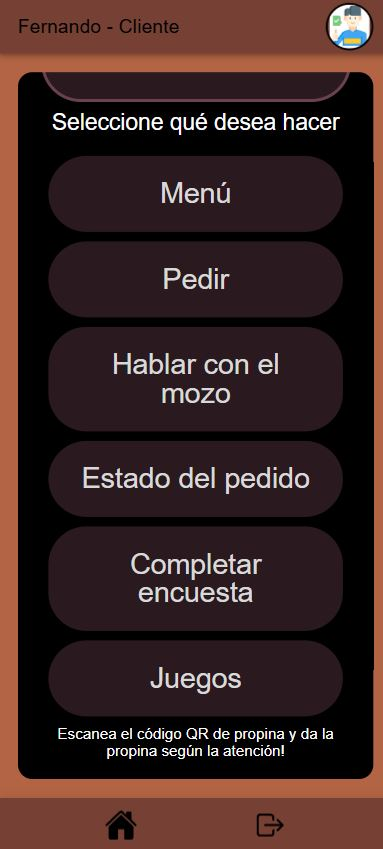
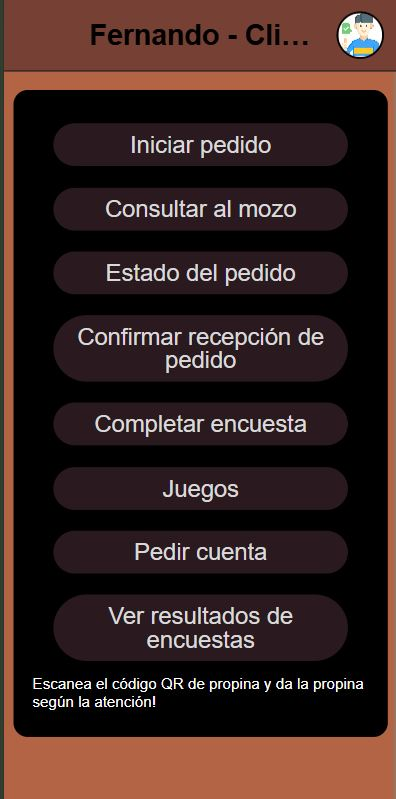
actualizacion readme

diff --git a/src/app/app.component.ts b/src/app/app.component.ts
@@ -99,8 +99,11 @@ export class AppComponent {
           if(this.authService.tipoUsuario == "Dueño" || this.authService.tipoUsuario == "Supervisor"){
             this.router.navigate(['/listaClientes']);
           } else{
-            this.router.navigate(['/mesa',"1"]);
+            // this.router.navigate(['/mesa',"1"]);
             // this.router.navigate(['/home']);
+            this.router.navigate(['/ingreso']);
+
+
         
           }
           // this.router.navigate(['/resultadosEncuestas']);

diff --git a/README.md b/README.md
@@ -90,6 +90,79 @@ Se marcaran en negrita aquellas tareas que hayan tenido un cambio de una semana 
 | 41 | **Juego para obtener un 20% de descuento**          | P3           | Santiago          | 🔴 No iniciada    |                    |                          |                                                             |
 | 42 | **Sonido inicio de sesión y cierre de sesión**      | P3           | Kervin            | 🔴 No iniciada    |                    |                          |                                                             |
 
+
+
+# Proyecto - Historial de Tareas
+
+## Tercer entrega: Pre entrega hasta 16/11/2024
+
+| N° | 📋 Tareas                                           | 🔝 Prioridad | 👤 Propietario | 📊 Estado     | 📅 Fecha de inicio | 📅 Fecha de finalización | 📌 Notas                                                     |
+|----|-----------------------------------------------------|--------------|----------------|---------------|--------------------|--------------------------|-------------------------------------------------------------|
+| 1  | Crear la estructura básica del proyecto             | P0           | Santiago       | 🟢 Completada | 26/10/2024         | 26/10/2024               |                                                             |
+| 2  | Crear la página de inicio de sesión                 | P0           | Fabiola        | 🟢 Completada | 26/10/2024         | 27/10/2024               |                                                             |
+| 3  | Crear icono                                         | P0           | Kervin         | 🟢 Completada | 26/10/2024         | 27/10/2024               |                                                             |
+| 4  | Crear Splash dinámico y estático                    | P0           | Fabiola        | 🟢 Completada | 26/10/2024         | 27/10/2024               |                                                             |
+| 5  | Crear loader                                        | P0           | Fabiola        | 🟡 En curso   | 26/10/2024         |                          | En el ng spinner, el cargando y el logo se superponen       |
+| 6  | Crear base de datos y autenticación en Firebase     | P0           | Santiago       | 🟢 Completada | 26/10/2024         | 26/10/2024               |                                                             |
+| 7  | Implementar la funcionalidad de Inicio de sesión    | P0           | Fabiola        | 🟢 Completada | 26/10/2024         | 11/07/2024               |                                                             |
+| 8  | Crear sistema de roles y permisos                   | P0           | Santiago       | 🟢 Completada | 26/10/2024         | 11/02/2024               |                                                             |
+| 9  | Diseñar QRs usados                                  | P0           | Santiago       | 🟡 En curso   | 26/10/2024         | 26/10/2024               | Falta mesa 3, 4 y 5                                        |
+| 10 | Implementar servicio de QR                          | P0           | Kervin         | 🟢 Completada | 26/10/2024         | 2/11/2024                |                                                             |
+| 11 | Implementar servicio de push notification           | P0           | Fabiola        | 🟡 En curso   | 26/10/2024         |                          |                                                             |
+| 12 | Implementar servicio de correo automático           | P0           | Kervin         | 🟢 Completada | 26/10/2024         | 5/11/2024                |                                                             |
+| 13 | Crear sistema de altas                              | P1           | Santiago       | 🟢 Completada | 26/10/2024         | 27/10/2024               |                                                             |
+| 14 | Alta de dueño / supervisor                          | P1           | Santiago       | 🟢 Completada | 26/10/2024         | 27/10/2024               |                                                             |
+| 15 | Alta de empleados                                   | P1           | Santiago       | 🟢 Completada | 26/10/2024         | 6/11/2024                |                                                             |
+| 16 | Alta de clientes                                    | P1           | Santiago       | 🟢 Completada | 26/10/2024         | 11/11/2024               |                                                             |
+| 17 | Alta de mesa                                        | P1           | Kervin         | 🟢 Completada | 26/10/2024         | 2/11/2024                |                                                             |
+| 18 | Alta de productos                                   | P1           | Fabiola        | 🟢 Completada | 26/10/2024         | 2/11/2024                |                                                             |
+| 19 | QR de ingreso al local                              | P1           | Fabiola        | 🟢 Completada | 4/11/2023          | 6/11/2024                | Habilitará a hacer dos cosas                                |
+| 20 | QR de la mesa                                       | P1           | Kervin         | 🟡 En curso   | 4/11/2023          |                          |                                                             |
+| 21 | QR de propina                                       | P1           | Santiago       | 🟡 En curso   | 4/11/2023          |                          | Elegir la propina                                           |
+| 22 | Encuesta cliente                                    | P2           | Fabiola        | 🟢 Completada | 4/11/2023          | 10/11/2024               |                                                             |
+| 23 | Encuesta empleado                                   | P2           | Kervin         | 🟡 En curso   | 4/11/2023          |                          |                                                             |
+| 24 | Encuesta supervisor                                 | P4           | Santiago       | 🔴 No iniciada | 4/11/2023          |                          |                                                             |
+| 25 | Agregar un nuevo cliente registrado                 | P2           | Santiago       | 🟡 En curso   | 27/10/2024         |                          | Loader para carga de lista                                  |
+| 26 | Ingresar al local                                   | P2           | Fabiola        | 🟡 En curso   | 4/11/2024          |                          | Mover completar encuesta a mesa                             |
+| **27**  | **6-A. Acceso a listado de productos en QR.**           | **P2**           | **Kervin**               | **🟡 En curso**   | **4/11/2024**          |                          |                                                             |
+| **28**  | **6-B. Botón de “consulta al mozo”.**                   | **P2**           | **Santiago**             | **🟡 En curso**   | **11/11/2024**         |                          | **Rutear para atrás del cliente y anónimo en el chat**          |
+| **29**  | **6-C. Notificación de consulta a todos los mozos.**    | **P2**           | **Fabiola**              | **🟡 En curso**   | **4/11/2024**          |                          |                                                             |
+| **30**  | **6-D. Respuesta del mozo en dispositivo del cliente.** | **P2**           | **Santiago**             | **🟢 Completada** | **11/11/2024**         | **11/11/2024**               |                                                             |
+| **31**  | **7-A. Realización del pedido por cliente.**            | **P2**           | **Kervin**               | **🟡 En curso**   | **4/11/2024**          |                          |                                                             |
+| **32**  | **7-B. Visualización del importe acumulado.**           | **P2**           | **Kervin**               | **🟡 En curso**   | **4/11/2024**          |                          |                                                             |
+| **33**  | **7-C. Muestra de tiempo estimado de pedido.**          | **P2**           | **Kervin**               | **🟡 En curso**   | **4/11/2024**          |                          |                                                             |
+| **34**  | **7-D. Confirmación de pedido por mozo para derivación**| **P2**           | **Kervin**               | **🟡 En curso**   | **4/11/2024**          |                          |                                                             |
+| **35**  | **7-E. Acceso a estado de pedido en QR.**               | **P2**           | **Kervin**               | **🟡 En curso**   | **4/11/2024**          |                          |                                                             |
+| **36**  | **8-A. Confirmación de pedido y derivación a sectores.**| **P2**           | **Santiago**             | **🟡 En curso**   | **13/11/2024**         |                          |                                                             |
+| **37**  | **8-B. Visualización de pedido en sectores correspondientes.** | **P2**    |                      | **🔴 No iniciada** |                    |                          |                                                             |
+| **38**  | **8-C. Acceso a juegos, encuesta y estado del pedido.** | **P2**           |                      | **🔴 No iniciada** |                    |                          |                                                             |
+| **39**  | **9-A. Preparación y aviso de sectores al mozo.**       | **P2**           |                      | **🔴 No iniciada** |                    |                          |                                                             |
+| **40**  | **9-B. Visualización de pedido en lista de mozo.**      | **P2**           |                      | **🔴 No iniciada** |                    |                          |                                                             |
+| **41**  | **9-C. Cliente verifica estado de pedido en QR.**       | **P2**           |                      | **🔴 No iniciada** |                    |                          |                                                             |
+| **42**  | **10-A. Entrega del pedido completo por mozo.**         | **P2**           |                      | **🔴 No iniciada** |                    |                          |                                                             |
+| **43**  | **10-B. Confirmación de recepción del pedido por cliente.** | **P2**       |                      | **🔴 No iniciada** |                    |                          |                                                             |
+| **44**  | **10-C. Verificación del estado de pedido en QR.**      | **P2**           |                      | **🔴 No iniciada** |                    |                          |                                                             |
+| **45**  | **10-D. Acceso a juegos, encuesta y opción de pedir cuenta.** | **P2**     |                      | **🔴 No iniciada** |                    |                          |                                                             |
+| **46**  | **Encuesta y visualización de resultados**              | **P2**           | **Santiago**             | **🟡 En curso**   | **9/11/2024**          |                          |                                                             |
+| **49**  | **11-A. Acceso a encuesta por cliente (completar)**     | **P2**           | **Santiago**             | **🟡 En curso**   | **9/11/2024**          |                          |                                                             |
+| **50**  | **11-B. Restricción de una encuesta por estadía.**      | **P2**           | **Santiago**             | **🟡 En curso**   | **9/11/2024**          |                          |                                                             |
+| **51**  | **11-C. Visualización de resultados de encuestas en QR.**| **P2**           | **Santiago**             | **🟡 En curso**   | **9/11/2024**          |                          | **Se debe poder acceder desde el escaneo de QR mesa a los resultados** |
+| **52**  | **12-A. Solicitud de cuenta al mozo.**                  | **P2**           | **Santiago**             | **🟡 En curso**   | **12/11/2024**         |                          | **Esto abrirá el QR para escanear propina y avisa al mozo**     |
+| **53**  | **12-B. Habilitación de ingreso de propina en QR.**      | **P2**           | **Santiago**             | **🟡 En curso**   | **12/11/2024**         |                          | **Se elige la propina**                                        |
+| **54**  | **12-C. Detalle de cuenta con pedidos, descuentos y total.** | **P2**        | **Santiago**             | **🟡 En curso**   | **12/11/2024**         |                          | **Eso dispara la generación de la cuenta**                     |
+| **55**  | **12-D. Pago simulado en plataforma de pagos.**         | **P2**           | **Santiago**             | **🟡 En curso**   | **12/11/2024**         |                          | **Botón que se habilita una vez leído el QR de propina**       |
+| **56**  | **13-A. Confirmación de pago y liberación de mesa.**    | **P2**           | **Santiago**             | **🟡 En curso**   | **12/11/2024**         |                          | **Aquí se borra el chat**                                      |
+| **57**  | **13-B. Verificación de mesa libre en QR.**             | **P2**           | **Santiago**             | **🟡 En curso**   | **12/11/2024**         |                          |                                                             |
+| **58**  | **13-C. Visualización de encuestas desde lista de espera** | **P2**        | **Fabiola**              | **🟢 Completada** | **4/11/2024**          | **9/04/2024**               |                                                             |
+| **59**  | **Generar reservas agendadas**                          | **P4**           |                      | **🔴 No iniciada** |                    |                          |                                                             |
+| **60**  | **Push notification: (generar reservas agendadas / Delivery)** | **P4**        |                      | **🔴 No iniciada** |                    |                          |                                                             |
+| **61**  | **Realizar pedido con GPS o dirección.**               | **P4**           |                      | **🔴 No iniciada** |                    |                          |                                                             |
+| **62**  | **Mapa de ruta hasta el domicilio de entrega.**         | **P4**           |                      | **🔴 No iniciada** |                    |                          |                                                             |
+| **63**  | **Juego para obtener un 10% de descuento.**            | **P3**           | **Kervin**               | **🟡 En curso**   | **14/11/2024**         |                          |                                                             |
+| **64**  | **Juego para obtener un 15% de descuento.**            | **P3**           | **Kervin**               | **🟢 Completada** | **26/10/2024**         | **1/11/2024**               |                                                             |
+| **65**  | **Juego para obtener un 20% de descuento.**            | **P3**           | **Kervin**               | **🟡 En curso**   | **14/11/2024**         |                          |                                                             |
+
+
 <!-- # ***Commits realizados*** -->
 
 # **_Diseños_**
@@ -143,20 +216,32 @@ Primero inicio, como aparece cuando se ingresa a la app, luego el ingreso, cuand
 ![Propina](https://github.com/SanHilde/comanditaFKS-2024/blob/main/src/assets/capturas/Anónimo-cliente-propina.JPG)
 
 
+### **Meitre Home**
+![Home-maitre](https://github.com/SanHilde/comanditaFKS-2024/blob/main/src/assets/capturas/Home-maitre)
+
+### **Mozo Home**
+![Home-mozo](https://github.com/SanHilde/comanditaFKS-2024/blob/main/src/assets/capturas/Home-mozo)
+
 ### **Metre Lista de Espera**
-![Nombre](link)
+![Home-maitre](https://github.com/SanHilde/comanditaFKS-2024/blob/main/src/assets/capturas/Maitre-listadeespera)
 
 ### **Cliente armado de Pedido**
 ![Nombre](link)
 
-### **Cliente Con Mesa + Consultas**
-![Nombre](link)
+### **Sala de chat**
+![Sala de chat](https://github.com/SanHilde/comanditaFKS-2024/blob/main/src/assets/capturas/Sala-de-chat)
+
+### **Chat**
+![Sala de chat](https://github.com/SanHilde/comanditaFKS-2024/blob/main/src/assets/capturas/Chat)
+
+### **Detalle de pedido**
+![Detalle](https://github.com/SanHilde/comanditaFKS-2024/blob/main/src/assets/capturas/Resumen)
 
 ### **Cliente Encuestas**
-![Nombre](link)
+![Resultados-encuestas](https://github.com/SanHilde/comanditaFKS-2024/blob/main/src/assets/capturas/Encuesta-cliente)
 
 ### **Estadísticas**
-![Nombre](link)
+![Estadisticas](https://github.com/SanHilde/comanditaFKS-2024/blob/main/src/assets/capturas/Resultados-encuestas)
 
 ### **Juegos**
 ![Nombre](link)
